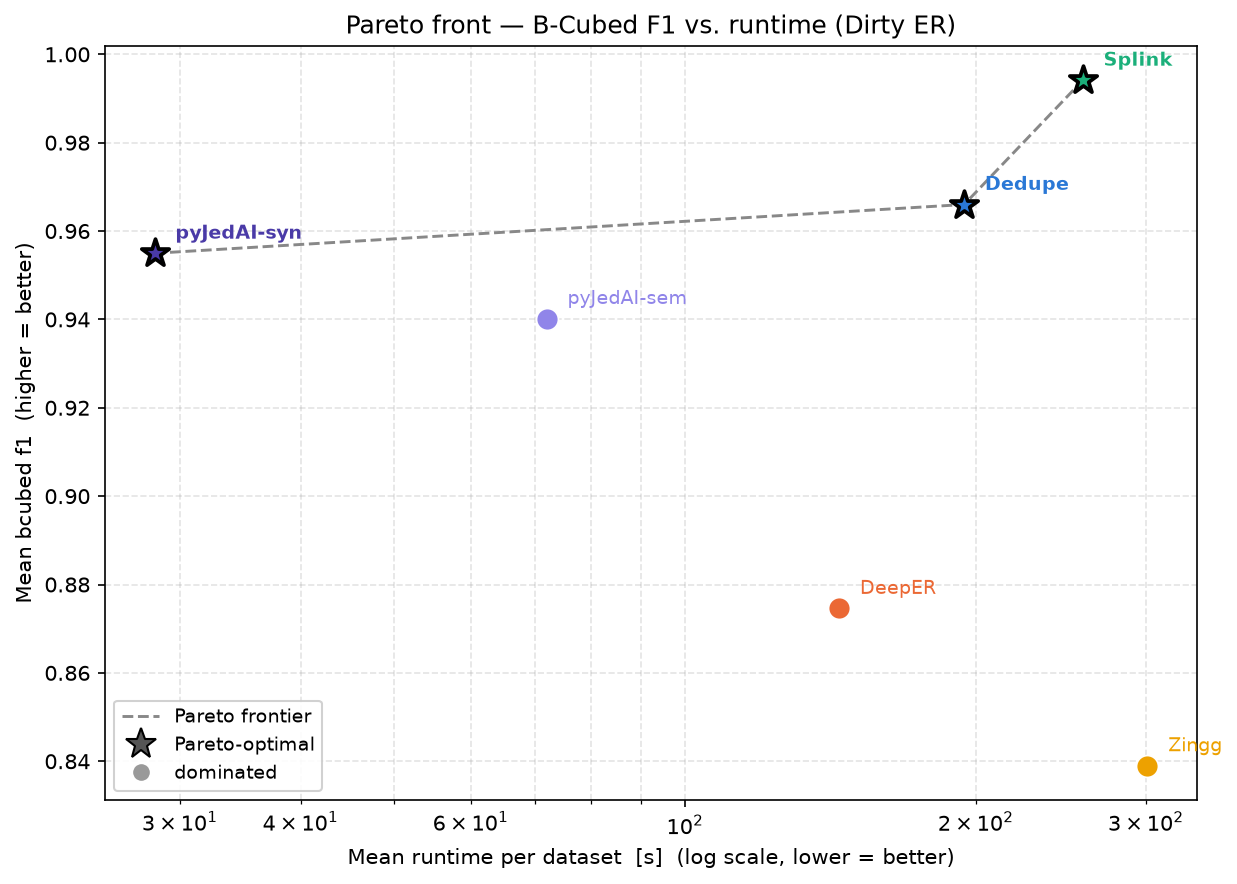
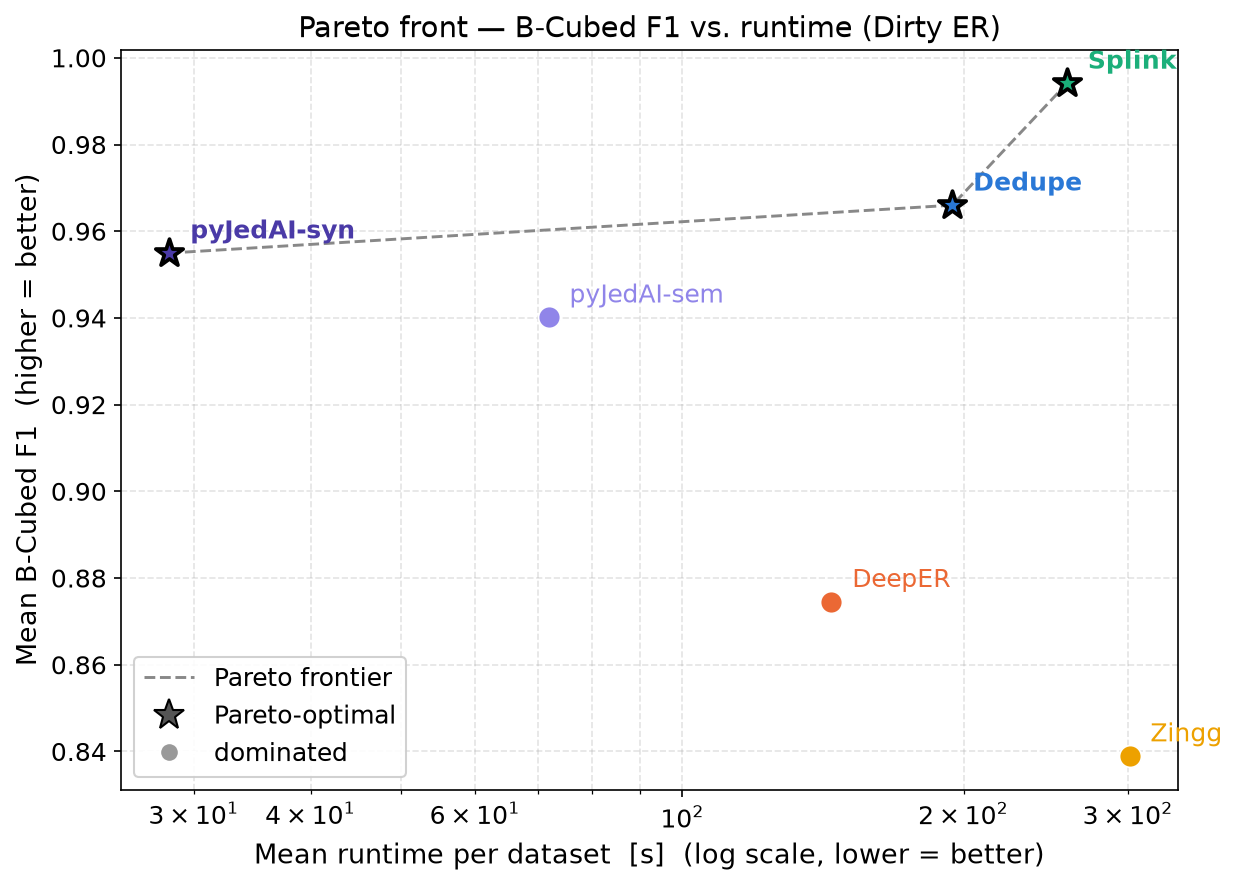
Pareto fronts edit

diff --git a/ER_PLOTS_AND_DIAGRAMS/ER_PLOTS_AND_DIAGRAMS/stats_analysis.py b/ER_PLOTS_AND_DIAGRAMS/ER_PLOTS_AND_DIAGRAMS/stats_analysis.py
@@ -380,8 +380,12 @@ def pareto_front(points):
     return set(front)
 
 
-def plot_pareto(agg, metric, title, out_path, note=""):
-    """agg: DataFrame indexed by framework with columns 'f1' and 'time'."""
+def plot_pareto(agg, metric, title, out_path, note="", label=None):
+    """agg: DataFrame indexed by framework with columns 'f1' and 'time'.
+
+    `label` names the quality metric on the y axis (defaults to the column).
+    """
+    label = label or metric.replace("_", " ")
     pts = [(agg.loc[fw, "time"], agg.loc[fw, metric], fw) for fw in agg.index]
     front = pareto_front([(t, q, fw) for (t, q, fw) in pts])
 
@@ -403,14 +407,16 @@ def plot_pareto(agg, metric, title, out_path, note=""):
                    linewidth=1.8 if is_front else 0.8,
                    marker="*" if is_front else "o", zorder=3)
         ax.annotate(fw, (t, q), textcoords="offset points",
-                    xytext=(10, 7), fontsize=9,
+                    xytext=(10, 7), fontsize=12,
                     fontweight="bold" if is_front else "normal",
                     color=FRAMEWORK_COLORS[fw])
 
     ax.set_xscale("log")
-    ax.set_xlabel("Mean runtime per dataset  [s]  (log scale, lower = better)")
-    ax.set_ylabel(f"Mean {metric.replace('_', ' ')}  (higher = better)")
-    ax.set_title(title)
+    ax.set_xlabel("Mean runtime per dataset  [s]  (log scale, lower = better)",
+                  fontsize=13)
+    ax.set_ylabel(f"Mean {label}  (higher = better)", fontsize=13)
+    ax.tick_params(axis="both", which="both", labelsize=12)
+    ax.set_title(title, fontsize=14)
     ax.grid(True, which="both", linestyle="--", alpha=0.35)
     ax.set_axisbelow(True)
     # proxy legend: star = Pareto-optimal, circle = dominated
@@ -423,7 +429,7 @@ def plot_pareto(agg, metric, title, out_path, note=""):
         Line2D([0], [0], marker="o", color="w", markerfacecolor="#999",
                markersize=9, label="dominated"),
     ]
-    ax.legend(handles=legend_handles, loc="lower left", fontsize=9,
+    ax.legend(handles=legend_handles, loc="lower left", fontsize=12,
               framealpha=0.9)
     # No footnote: the paper's caption names the excluded frameworks.
     fig.tight_layout()
@@ -472,6 +478,9 @@ METRICS = [("pairwise_f1", "Pairwise F1"), ("bcubed_f1", "B-Cubed F1")]
 
 # How each dataset family is named inside the figures.
 FAMILY_NAME = {"CCER": "Clean-Clean ER", "DER": "Dirty ER"}
+# How each metric is named inside the figures (the paper calls pairwise F1
+# simply "F1").
+FIGURE_METRIC_NAME = {"pairwise_f1": "F1", "bcubed_f1": "B-Cubed F1"}
 
 
 def pareto_section(combined, datasets, frameworks, family, log, excluded=()):
@@ -488,11 +497,12 @@ def pareto_section(combined, datasets, frameworks, family, log, excluded=()):
                               for fw in agg.index])
         log(f"Pareto-optimal ({family}, {nice} vs runtime): "
             f"{', '.join(sorted(front))}")
+        label = FIGURE_METRIC_NAME[metric]
         plot_pareto(agg, metric,
-                    f"Pareto front — {nice} vs. runtime "
+                    f"Pareto front — {label} vs. runtime "
                     f"({FAMILY_NAME[family]})",
                     os.path.join(STATS_DIR, f"pareto_{family}_{metric}.png"),
-                    note=exclusion_note(list(excluded)))
+                    note=exclusion_note(list(excluded)), label=label)
     agg.round(4).to_csv(os.path.join(STATS_DIR, f"pareto_summary_{family}.csv"))
 
 
